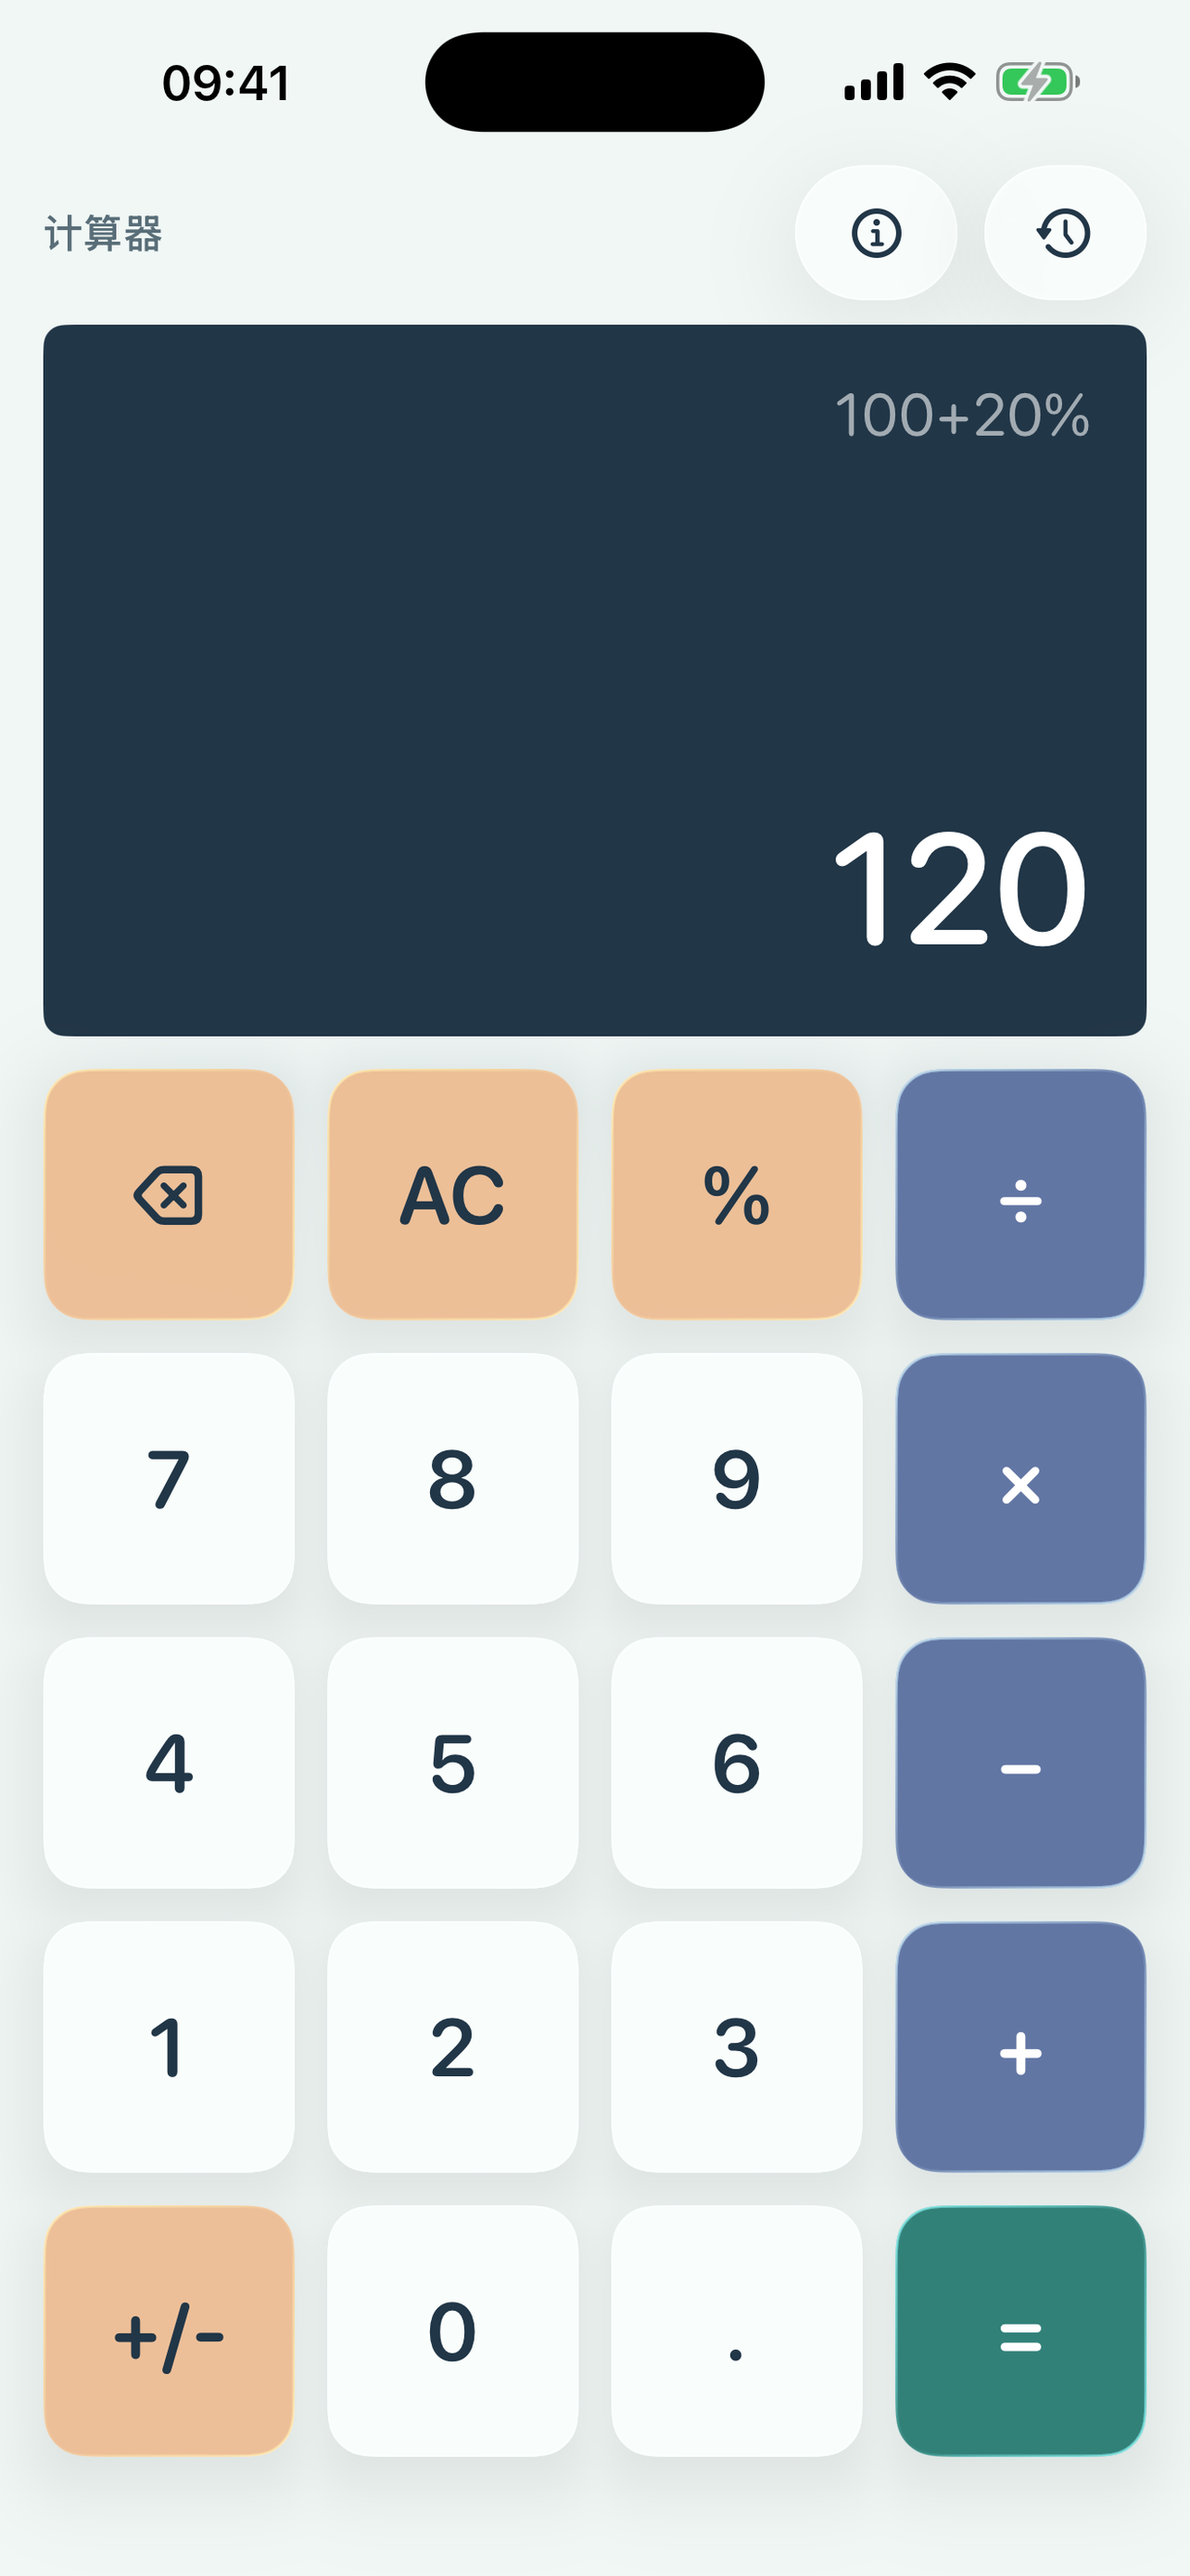
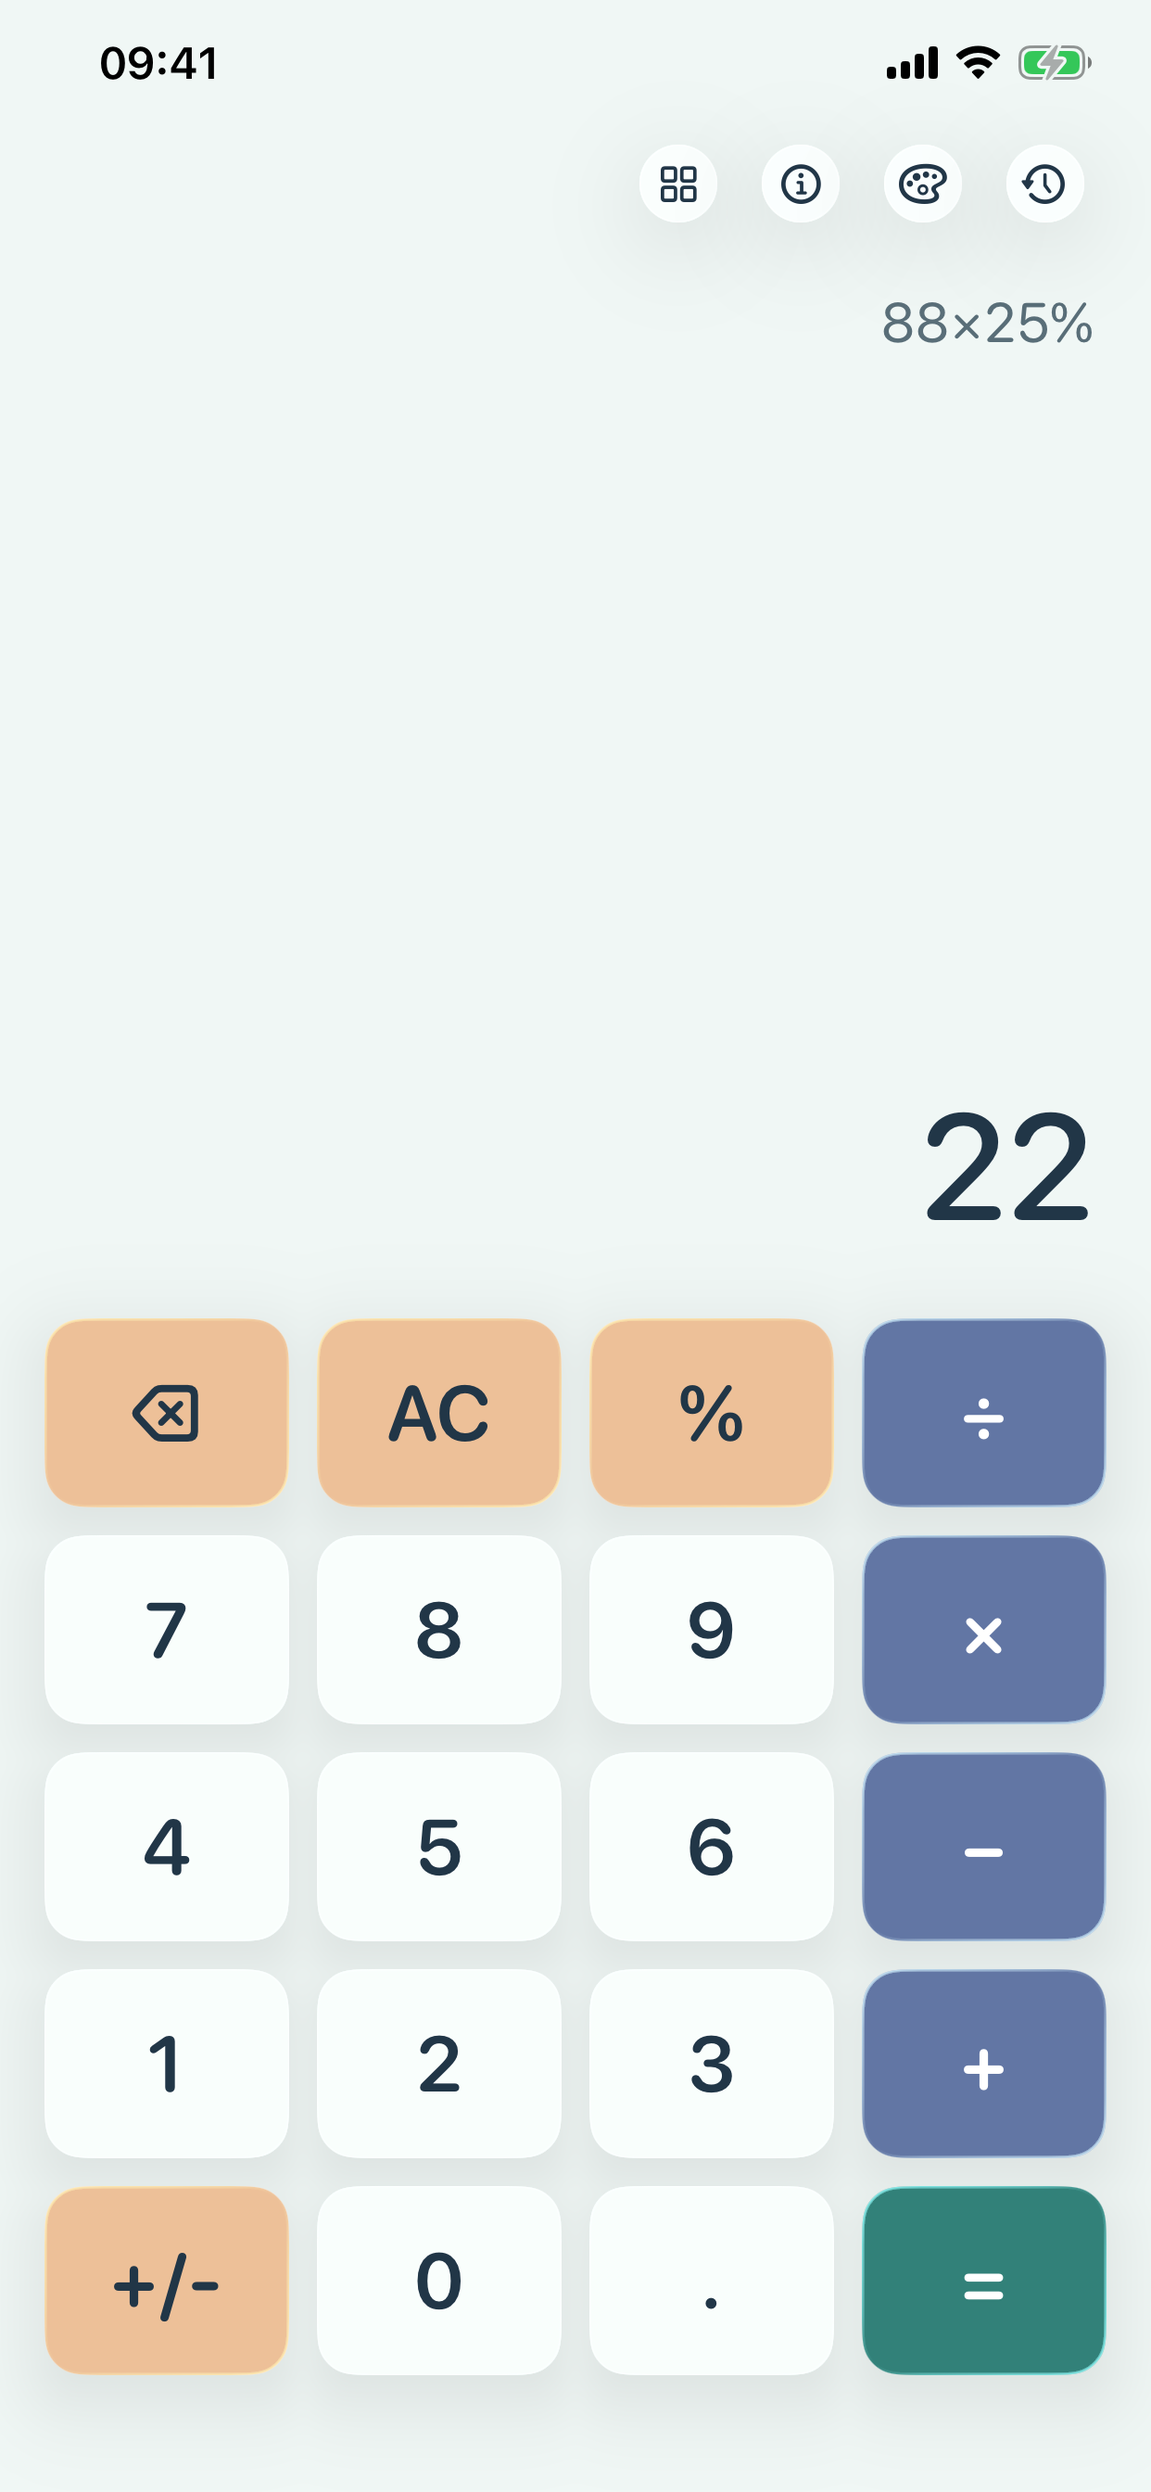
feat

diff --git a/CalculatorProTests/CalculatorTests.swift b/CalculatorProTests/CalculatorTests.swift
@@ -1,4 +1,5 @@
 import Foundation
+import SwiftUI
 import XCTest
 @testable import CalculatorPro
 
@@ -1314,5 +1315,105 @@ class CalculatorTests: XCTestCase {
         tap(.equal)
         XCTAssertEqual(viewModel.result, "8")
         XCTAssertEqual(viewModel.previousResult, "5+3")
+    }
+
+    // MARK: - 【临时】超限输入复现（定位后删除）
+
+    func testReproMaxDigitsBlankDisplay() {
+        for i in 1...25 {
+            tap(.eight)
+            NSLog(
+                "[REPRO-MAXDIGITS] tap %d -> result=%@ expr=%@ primary=%@",
+                i, viewModel.result, viewModel.currentExpression, viewModel.primaryDisplayText
+            )
+        }
+        NSLog("[REPRO-MAXDIGITS] final result=%@ expr=%@", viewModel.result, viewModel.currentExpression)
+    }
+
+    func testReproMaxDigitsBlankDisplaySnapshot() {
+        for _ in 1...25 { tap(.eight) }
+
+        let view = MainView(appModel: self.viewModel)
+            .frame(width: 402, height: 874)
+
+        let controller = UIHostingController(rootView: view)
+        let window = UIWindow(frame: CGRect(x: 0, y: 0, width: 402, height: 874))
+        window.rootViewController = controller
+        window.makeKeyAndVisible()
+        controller.view.layoutIfNeeded()
+        RunLoop.current.run(until: Date(timeIntervalSinceNow: 0.5))
+        controller.view.layoutIfNeeded()
+
+        let renderer = UIGraphicsImageRenderer(bounds: controller.view.bounds)
+        let image = renderer.image { _ in
+            controller.view.drawHierarchy(in: controller.view.bounds, afterScreenUpdates: true)
+        }
+        if let data = image.pngData() {
+            try? data.write(to: URL(fileURLWithPath: "/tmp/repro-maxdigits.png"))
+        }
+        NSLog("[REPRO-MAXDIGITS] snapshot saved, resultText=%@", viewModel.primaryDisplayText)
+    }
+
+    // 【临时】字体渲染变体诊断（定位后删除）
+    func testReproFontVariantMatrix() {
+        let s10 = "8888888888"
+        let matrix = VStack(alignment: .trailing, spacing: 18) {
+            ForEach(0..<10, id: \.self) { idx in
+                switch idx {
+                case 0:
+                    Text(s10).font(.system(size: 54, weight: .medium, design: .rounded))
+                        .minimumScaleFactor(0.35).lineLimit(1).allowsTightening(true)
+                case 1:
+                    Text(s10).font(.system(size: 54, weight: .medium))
+                        .minimumScaleFactor(0.35).lineLimit(1).allowsTightening(true)
+                case 2:
+                    Text(s10).font(.system(size: 54, weight: .light, design: .rounded))
+                        .minimumScaleFactor(0.35).lineLimit(1).allowsTightening(true)
+                case 3:
+                    Text(s10).font(.system(size: 54, weight: .medium, design: .rounded))
+                        .lineLimit(1)
+                case 4:
+                    Text(s10).font(.system(size: 40, weight: .medium, design: .rounded))
+                        .minimumScaleFactor(0.35).lineLimit(1).allowsTightening(true)
+                case 5:
+                    Text("888888888").font(.system(size: 54, weight: .medium, design: .rounded))
+                        .minimumScaleFactor(0.35).lineLimit(1).allowsTightening(true)
+                case 6:
+                    Text("1234567890").font(.system(size: 54, weight: .medium, design: .rounded))
+                        .minimumScaleFactor(0.35).lineLimit(1).allowsTightening(true)
+                case 7:
+                    Text(s10).font(.system(size: 70, weight: .light))
+                        .minimumScaleFactor(0.5).lineLimit(1)
+                case 8:
+                    Text(s10).font(.system(size: 54, weight: .medium, design: .rounded))
+                        .minimumScaleFactor(0.35).lineLimit(1)
+                default:
+                    Text(" ").font(.system(size: 20, weight: .regular, design: .rounded))
+                        .lineLimit(1).minimumScaleFactor(0.6)
+                }
+            }
+        }
+        .frame(width: 370)
+        .padding(16)
+        .background(Color.black)
+
+        let controller = UIHostingController(
+            rootView: matrix.frame(width: 402, height: 874)
+        )
+        let window = UIWindow(frame: CGRect(x: 0, y: 0, width: 402, height: 874))
+        window.rootViewController = controller
+        window.makeKeyAndVisible()
+        controller.view.layoutIfNeeded()
+        RunLoop.current.run(until: Date(timeIntervalSinceNow: 0.5))
+        controller.view.layoutIfNeeded()
+
+        let renderer = UIGraphicsImageRenderer(bounds: controller.view.bounds)
+        let image = renderer.image { _ in
+            controller.view.drawHierarchy(in: controller.view.bounds, afterScreenUpdates: true)
+        }
+        if let data = image.pngData() {
+            try? data.write(to: URL(fileURLWithPath: "/tmp/repro-variants.png"))
+        }
+        NSLog("[REPRO-MAXDIGITS] variant matrix saved")
     }
 }

diff --git a/APP_STORE_METADATA.md b/APP_STORE_METADATA.md
@@ -13,7 +13,28 @@
 
 ## 推广文本
 
-不只显示答案，也保留完整算式。计算记录仅存于本机，可按房租、餐饮、购物等用途分类，并能一键取回结果继续计算。
+1.1.0 焕新登场：全新主题界面，新增 FIRE 与资产续航财务测算，目标资产、应急基金、达成年数、安全提取额一键估算。财务输入只在本地内存实时计算，不上传、不保存。完整算式、历史分类、离线可用，每一笔账都清清楚楚。
+
+## 版本 1.1.0 更新说明
+
+【全新主题界面】
+键盘与显示区域全面焕新，数字与算式更清晰易读，操作反馈更直观。
+
+【新增：财务测算】
+主界面新增「财务测算」入口，支持两种模式：
+• FIRE 模式：估算目标资产、应急基金、预计达成年数与安全提取额。
+• 资产续航模式：估算现有资产的可续航时间。
+财务输入只在当前页面的内存中实时计算，关闭页面后即销毁，不保存、不上传。
+
+【新增：检查更新与评分】
+「关于」页面新增「检查更新」与「给个好评」入口，仅在您主动点击时才会访问网络。
+
+【问题修复】
+• 修复负数作为第二操作数参与运算时，算式显示与计算结果异常的问题。
+• 修复退格清空当前操作数后继续点按运算符，可能出现重复运算符的问题。
+• 修复计算完成后直接输入新数字时，旧算式残留的问题。
+
+感谢使用芃芃计算器！
 
 ## App 描述
 
@@ -44,7 +65,7 @@
 
 ## 关键词
 
-算式,历史记录,百分比,账单,支出,分类,离线,四则运算,购物,工资
+计算器,算式,历史记录,百分比,账单,支出,分类,离线,四则运算,FIRE,财务自由,退休规划,资产续航,理财,测算,复利,收支,预算,工资,购物
 
 ## 审核备注（中文）
 
